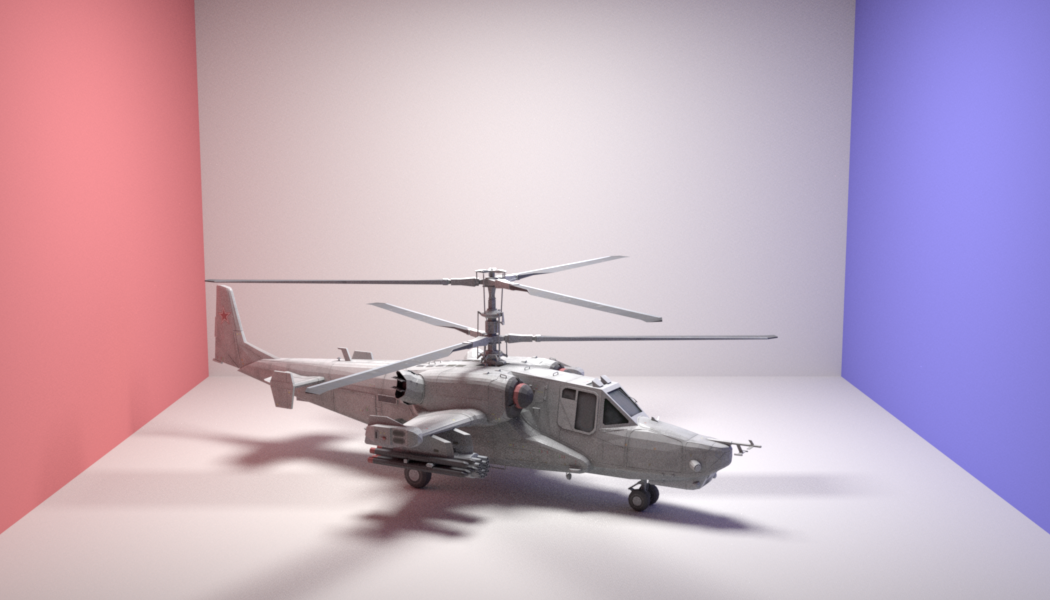
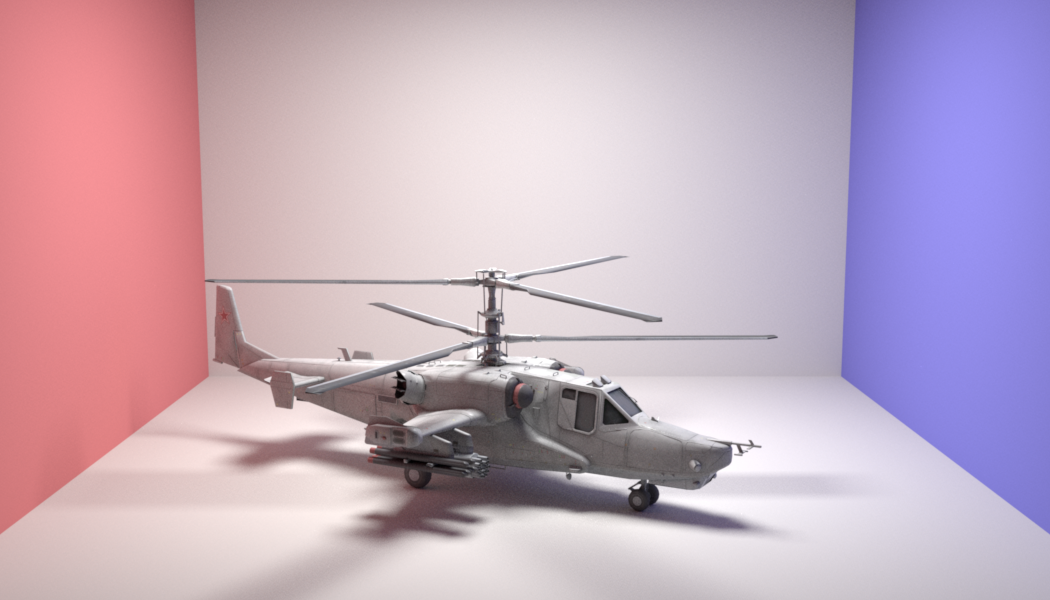
完成法线计算

diff --git a/Paladin/src/parser/modelparser.cpp b/Paladin/src/parser/modelparser.cpp
@@ -62,6 +62,10 @@ void ModelParser::packageData() {
 }
 
 void ModelParser::generateNormals() {
+    map<string, Float> areaMap;
+    vector<Float> areaLst;
+    areaLst.resize(_points.size(), 0);
+    _normals.resize(_points.size(), Normal3f(0, 0, 0));
     for (size_t i = 0; i < _verts.size(); i += 3) {
         int posIdx0 = _verts[i].pos;
         int posIdx1 = _verts[i + 1].pos;
@@ -69,8 +73,19 @@ void ModelParser::generateNormals() {
         Point3f p0 = _points[posIdx0];
         Point3f p1 = _points[posIdx1];
         Point3f p2 = _points[posIdx2];
-        
+        Vector3f crs = cross(p1 - p0, p2 - p0);
+        Float area = 0.5 * crs.length();
+        Normal3f normal = normalize(Normal3f(crs));
+        for (size_t j = 0; j < 3; ++j) {
+            int posIdx = _verts[i + j].pos;
+            Float curArea = areaLst[posIdx];
+            Normal3f curNormal = _normals[posIdx];
+            Normal3f newNormal = (curNormal * curArea + normal * area) / (area + curArea);
+            areaLst[posIdx] = area + curArea;
+            _normals[posIdx] = newNormal;
+        }
     }
+    return;
 }
 
 void ModelParser::parseShapes() {
@@ -167,12 +182,11 @@ void ModelParser::parseShape(const shape_t &shape) {
     mesh_t mesh = shape.mesh;
     for (size_t i = 0; i < mesh.material_ids.size(); ++i) {
         int matId = mesh.material_ids[i];
-        index_t idx0 = mesh.indices[i * 3];
-        index_t idx1 = mesh.indices[i * 3 + 1];
-        index_t idx2 = mesh.indices[i * 3 + 2];
-        _verts.emplace_back(idx0.texcoord_index, idx0.vertex_index, idx0.normal_index, 0);
-        _verts.emplace_back(idx1.texcoord_index, idx1.vertex_index, idx1.normal_index, 0);
-        _verts.emplace_back(idx2.texcoord_index, idx2.vertex_index, idx2.normal_index, 0);
+        for (int j = 0; j < 3; ++j) {
+            index_t idx = mesh.indices[i * 3 + j];
+            idx.normal_index = idx.normal_index == -1 ? idx.vertex_index : idx.normal_index;
+            _verts.emplace_back(idx.texcoord_index, idx.vertex_index, idx.normal_index, 0);
+        }
         _matIndices.push_back(matId);
     }
 }

diff --git a/Paladin/src/shapes/trianglemesh.cpp b/Paladin/src/shapes/trianglemesh.cpp
@@ -86,7 +86,7 @@ shadowAlphaMask(shadowAlphaMask){
         size_t size = N->size();
         normals.reset(new Normal3f[size]);
         for (int i = 0; i < size; ++i) {
-            normals[i] = objectToWorld->exec((*N)[i]);
+            normals[i] = normalize(objectToWorld->exec((*N)[i]));
         }
     } else {
         normals.reset();
